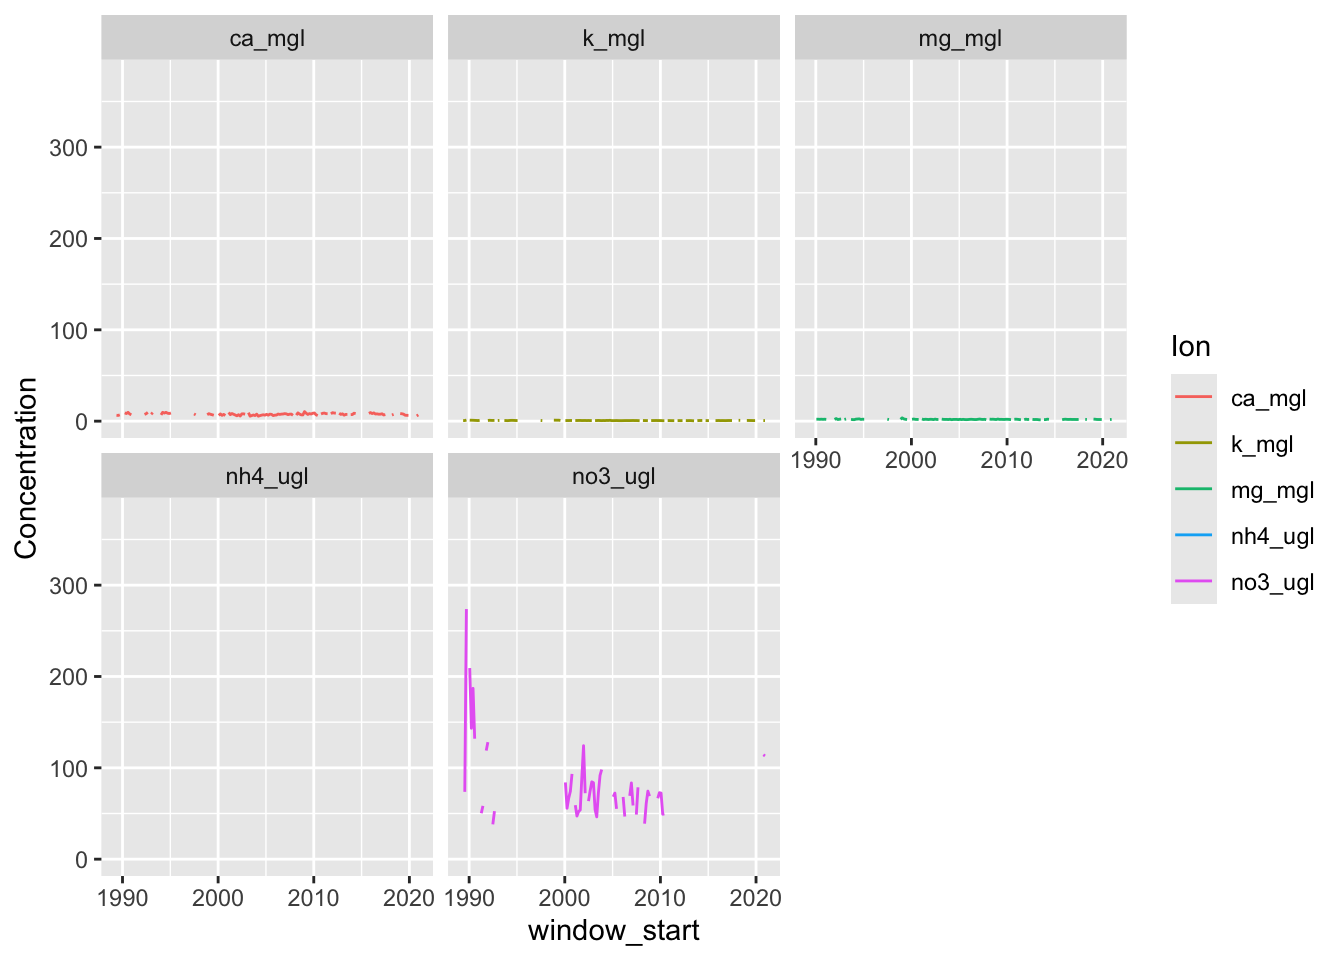
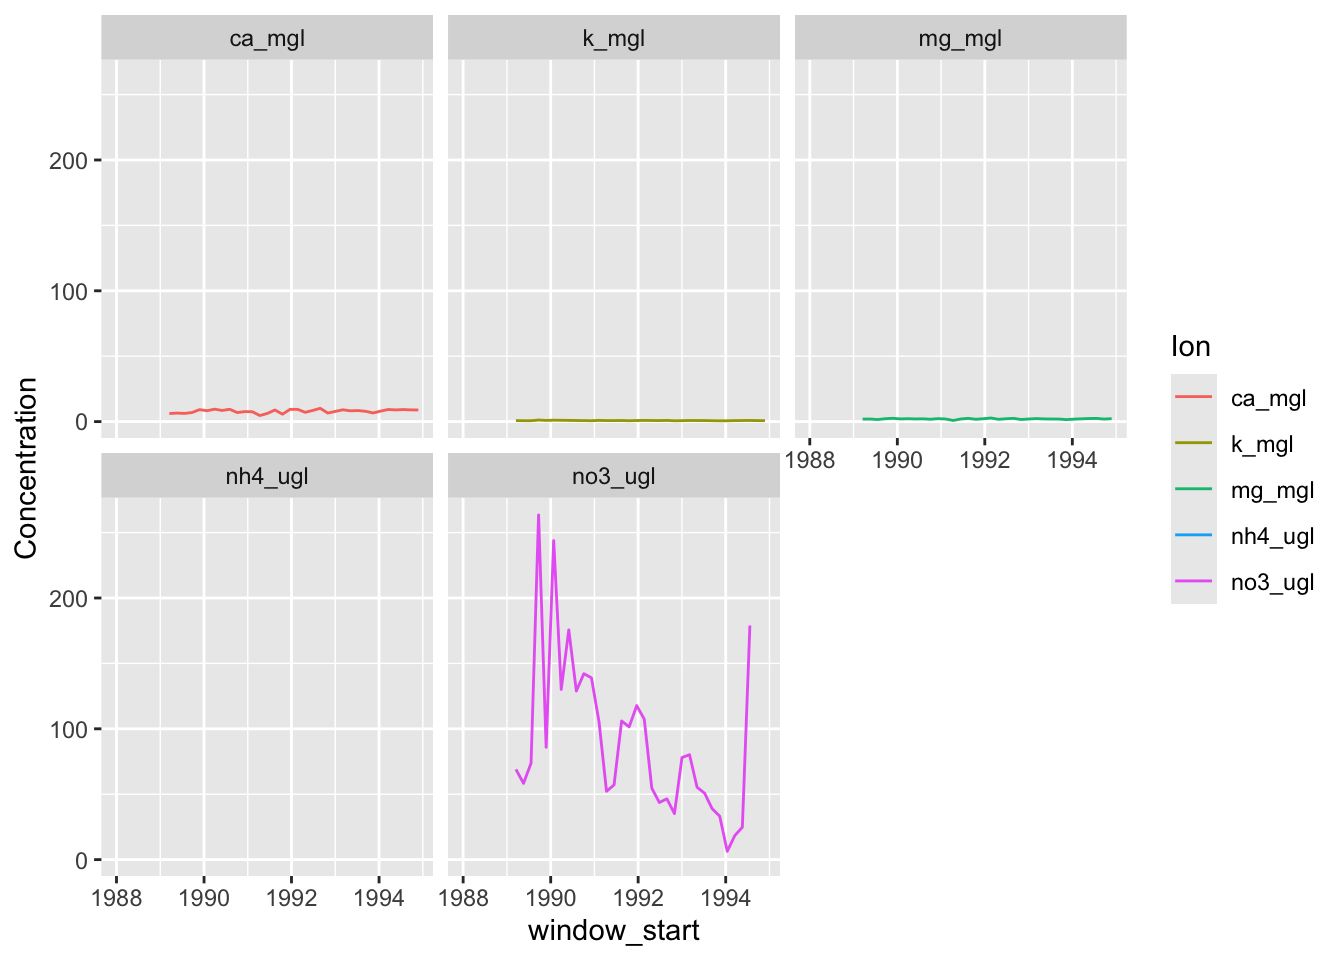
thursday edits

diff --git a/docs/paper.html b/docs/paper.html
@@ -2,7 +2,7 @@
 <html xmlns="http://www.w3.org/1999/xhtml" lang="en" xml:lang="en"><head>
 
 <meta charset="utf-8">
-<meta name="generator" content="quarto-1.10.18">
+<meta name="generator" content="quarto-1.9.38">
 
 <meta name="viewport" content="width=device-width, initial-scale=1.0, user-scalable=yes">
 
@@ -12,13 +12,10 @@
 /* Default styles provided by pandoc.
 ** See https://pandoc.org/MANUAL.html#variables-for-html for config info.
 */
+code{white-space: pre-wrap;}
 span.smallcaps{font-variant: small-caps;}
-div.columns{display: flex; gap: 1.5em;}
-div.column{flex: auto;}
-@media screen {
-div.columns{gap: min(4vw, 1.5em);}
-div.column{overflow-x: auto;}
-}
+div.columns{display: flex; gap: min(4vw, 1.5em);}
+div.column{flex: auto; overflow-x: auto;}
 div.hanging-indent{margin-left: 1.5em; text-indent: -1.5em;}
 ul.task-list{list-style: none;}
 ul.task-list li input[type="checkbox"] {
@@ -71,10 +68,10 @@ pre > code.sourceCode > span > a:first-child::before { text-decoration: underlin
 <script src="paper_files/libs/quarto-html/tippy.umd.min.js"></script>
 <script src="paper_files/libs/quarto-html/anchor.min.js"></script>
 <link href="paper_files/libs/quarto-html/tippy.css" rel="stylesheet">
-<link href="paper_files/libs/quarto-html/quarto-syntax-highlighting-64a204ab8560d761af7679ceaba22944.css" rel="stylesheet" id="quarto-text-highlighting-styles">
+<link href="paper_files/libs/quarto-html/quarto-syntax-highlighting-15634bcf2e68342d4ad2dfa704d543f6.css" rel="stylesheet" id="quarto-text-highlighting-styles">
 <script src="paper_files/libs/bootstrap/bootstrap.min.js"></script>
 <link href="paper_files/libs/bootstrap/bootstrap-icons.css" rel="stylesheet">
-<link href="paper_files/libs/bootstrap/bootstrap-917079515d91bccb85b543faf8aa8bb6.min.css" rel="stylesheet" append-hash="true" id="quarto-bootstrap" data-mode="light">
+<link href="paper_files/libs/bootstrap/bootstrap-138a6193a3bd40baf1e627da441a4734.min.css" rel="stylesheet" append-hash="true" id="quarto-bootstrap" data-mode="light">
 
 
 </head>
@@ -137,6 +134,13 @@ pre > code.sourceCode > span > a:first-child::before { text-decoration: underlin
 <span id="cb2-13"><a href="#cb2-13" aria-hidden="true" tabindex="-1"></a>  ) <span class="sc">+</span></span>
 <span id="cb2-14"><a href="#cb2-14" aria-hidden="true" tabindex="-1"></a>  <span class="fu">geom_line</span>() <span class="sc">+</span></span>
 <span id="cb2-15"><a href="#cb2-15" aria-hidden="true" tabindex="-1"></a>  <span class="fu">facet_wrap</span>(<span class="sc">~</span>Ion)</span></code></pre></div><button title="Copy to Clipboard" class="code-copy-button"><i class="bi"></i></button></div>
+<div class="cell-output-display">
+<div>
+<figure class="figure">
+<p><img src="paper_files/figure-html/unnamed-chunk-2-1.png" class="img-fluid figure-img" width="672"></p>
+</figure>
+</div>
+</div>
 </div>
 </section>
 <section id="results" class="level2">
